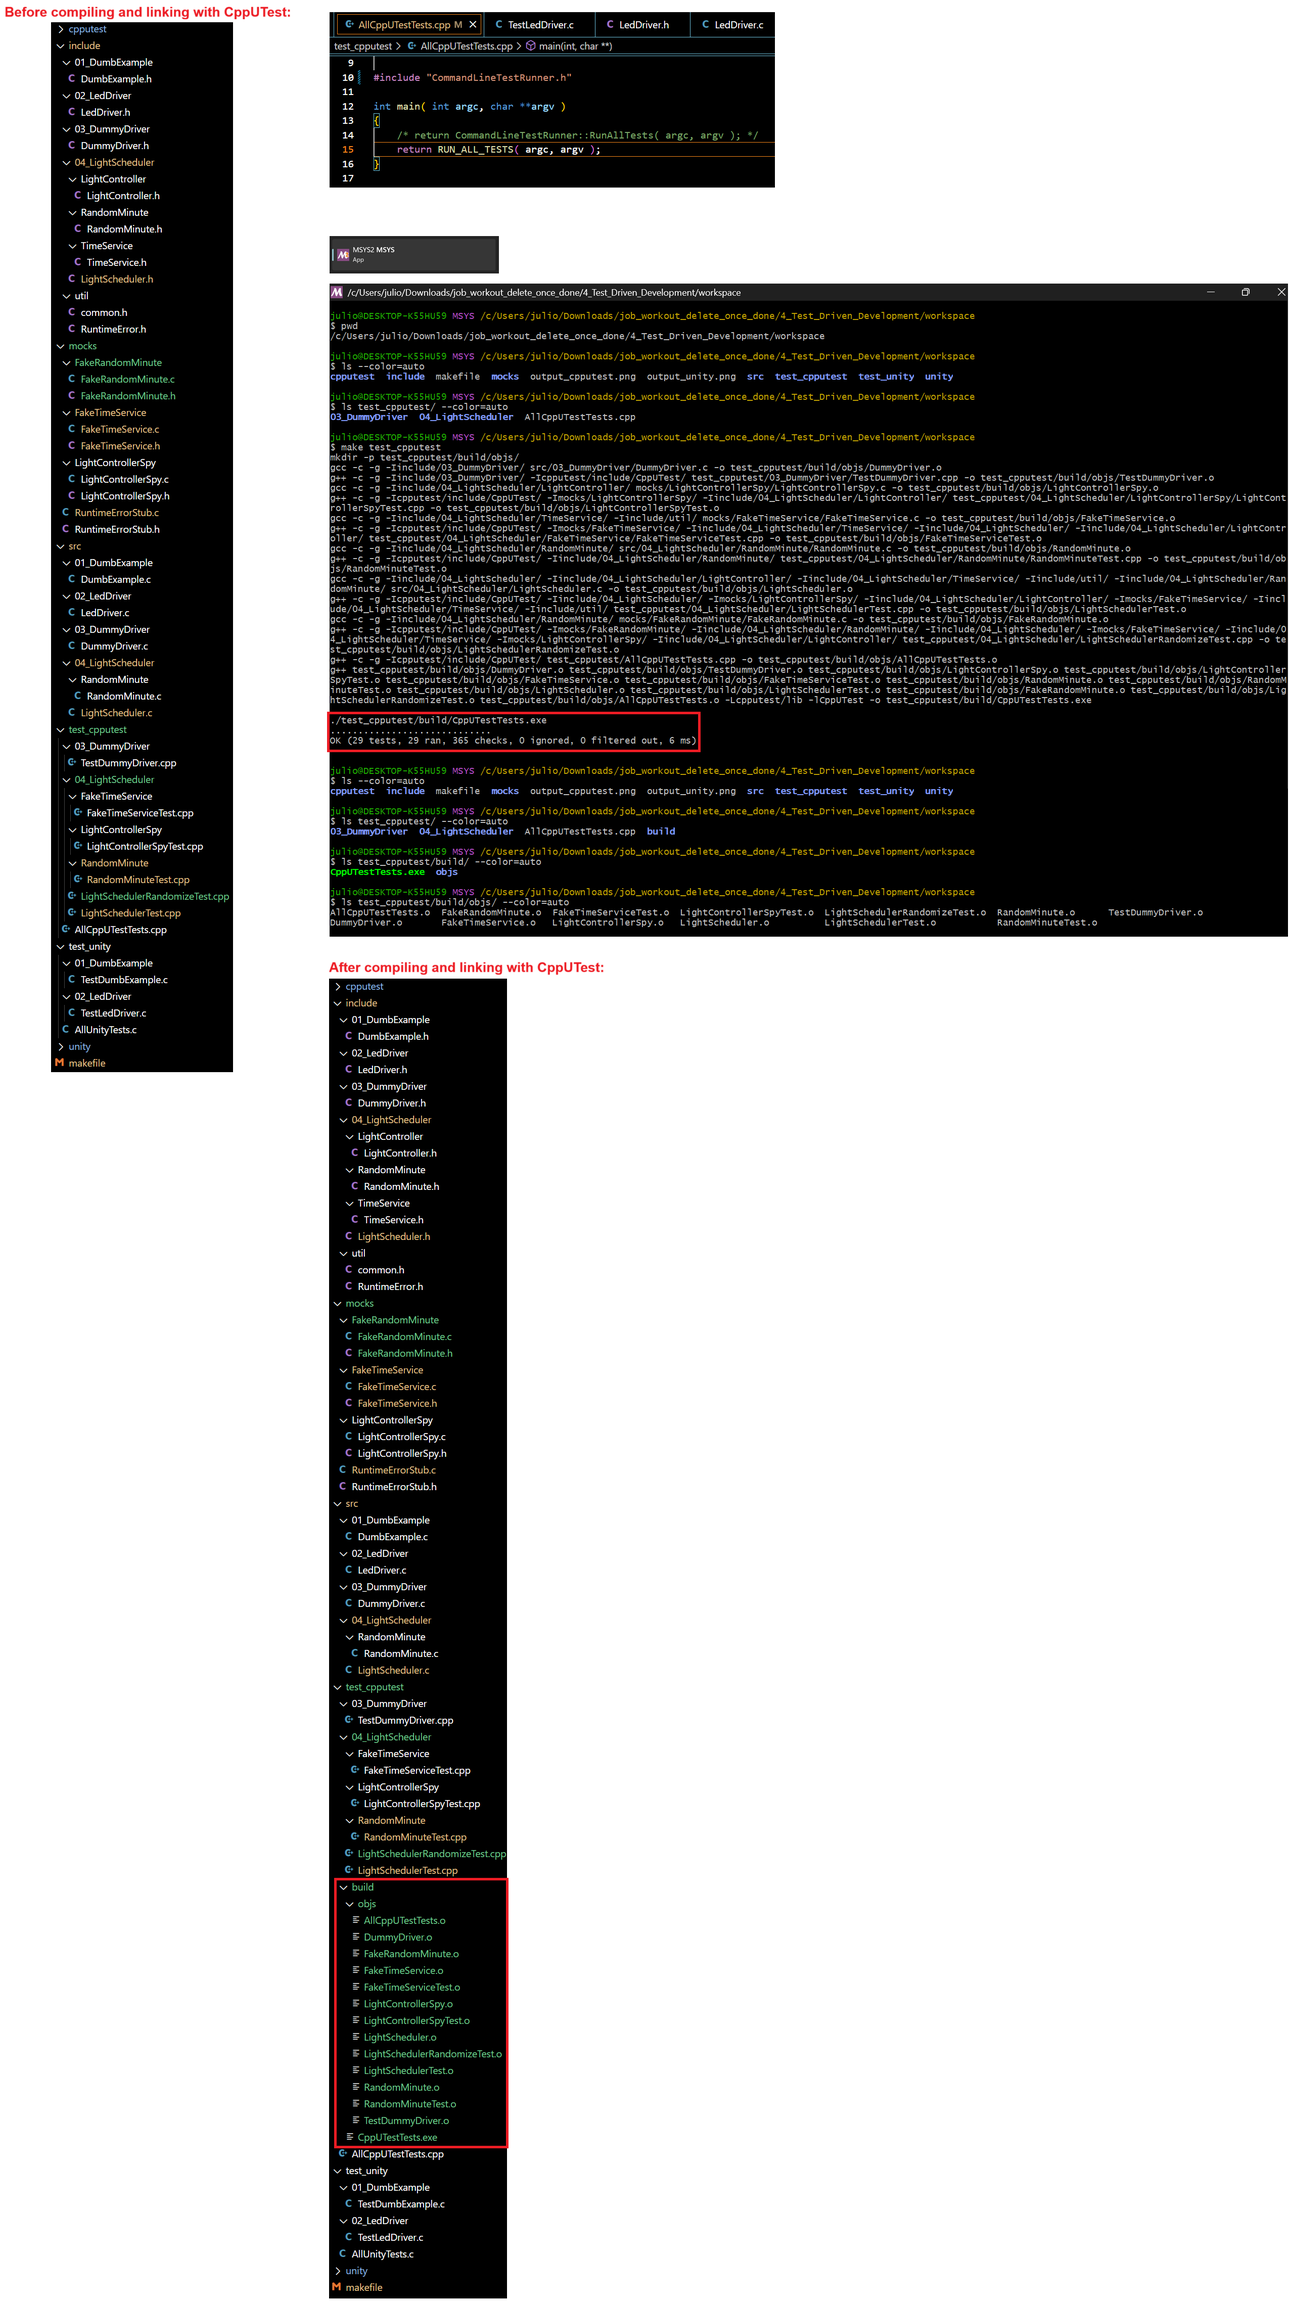
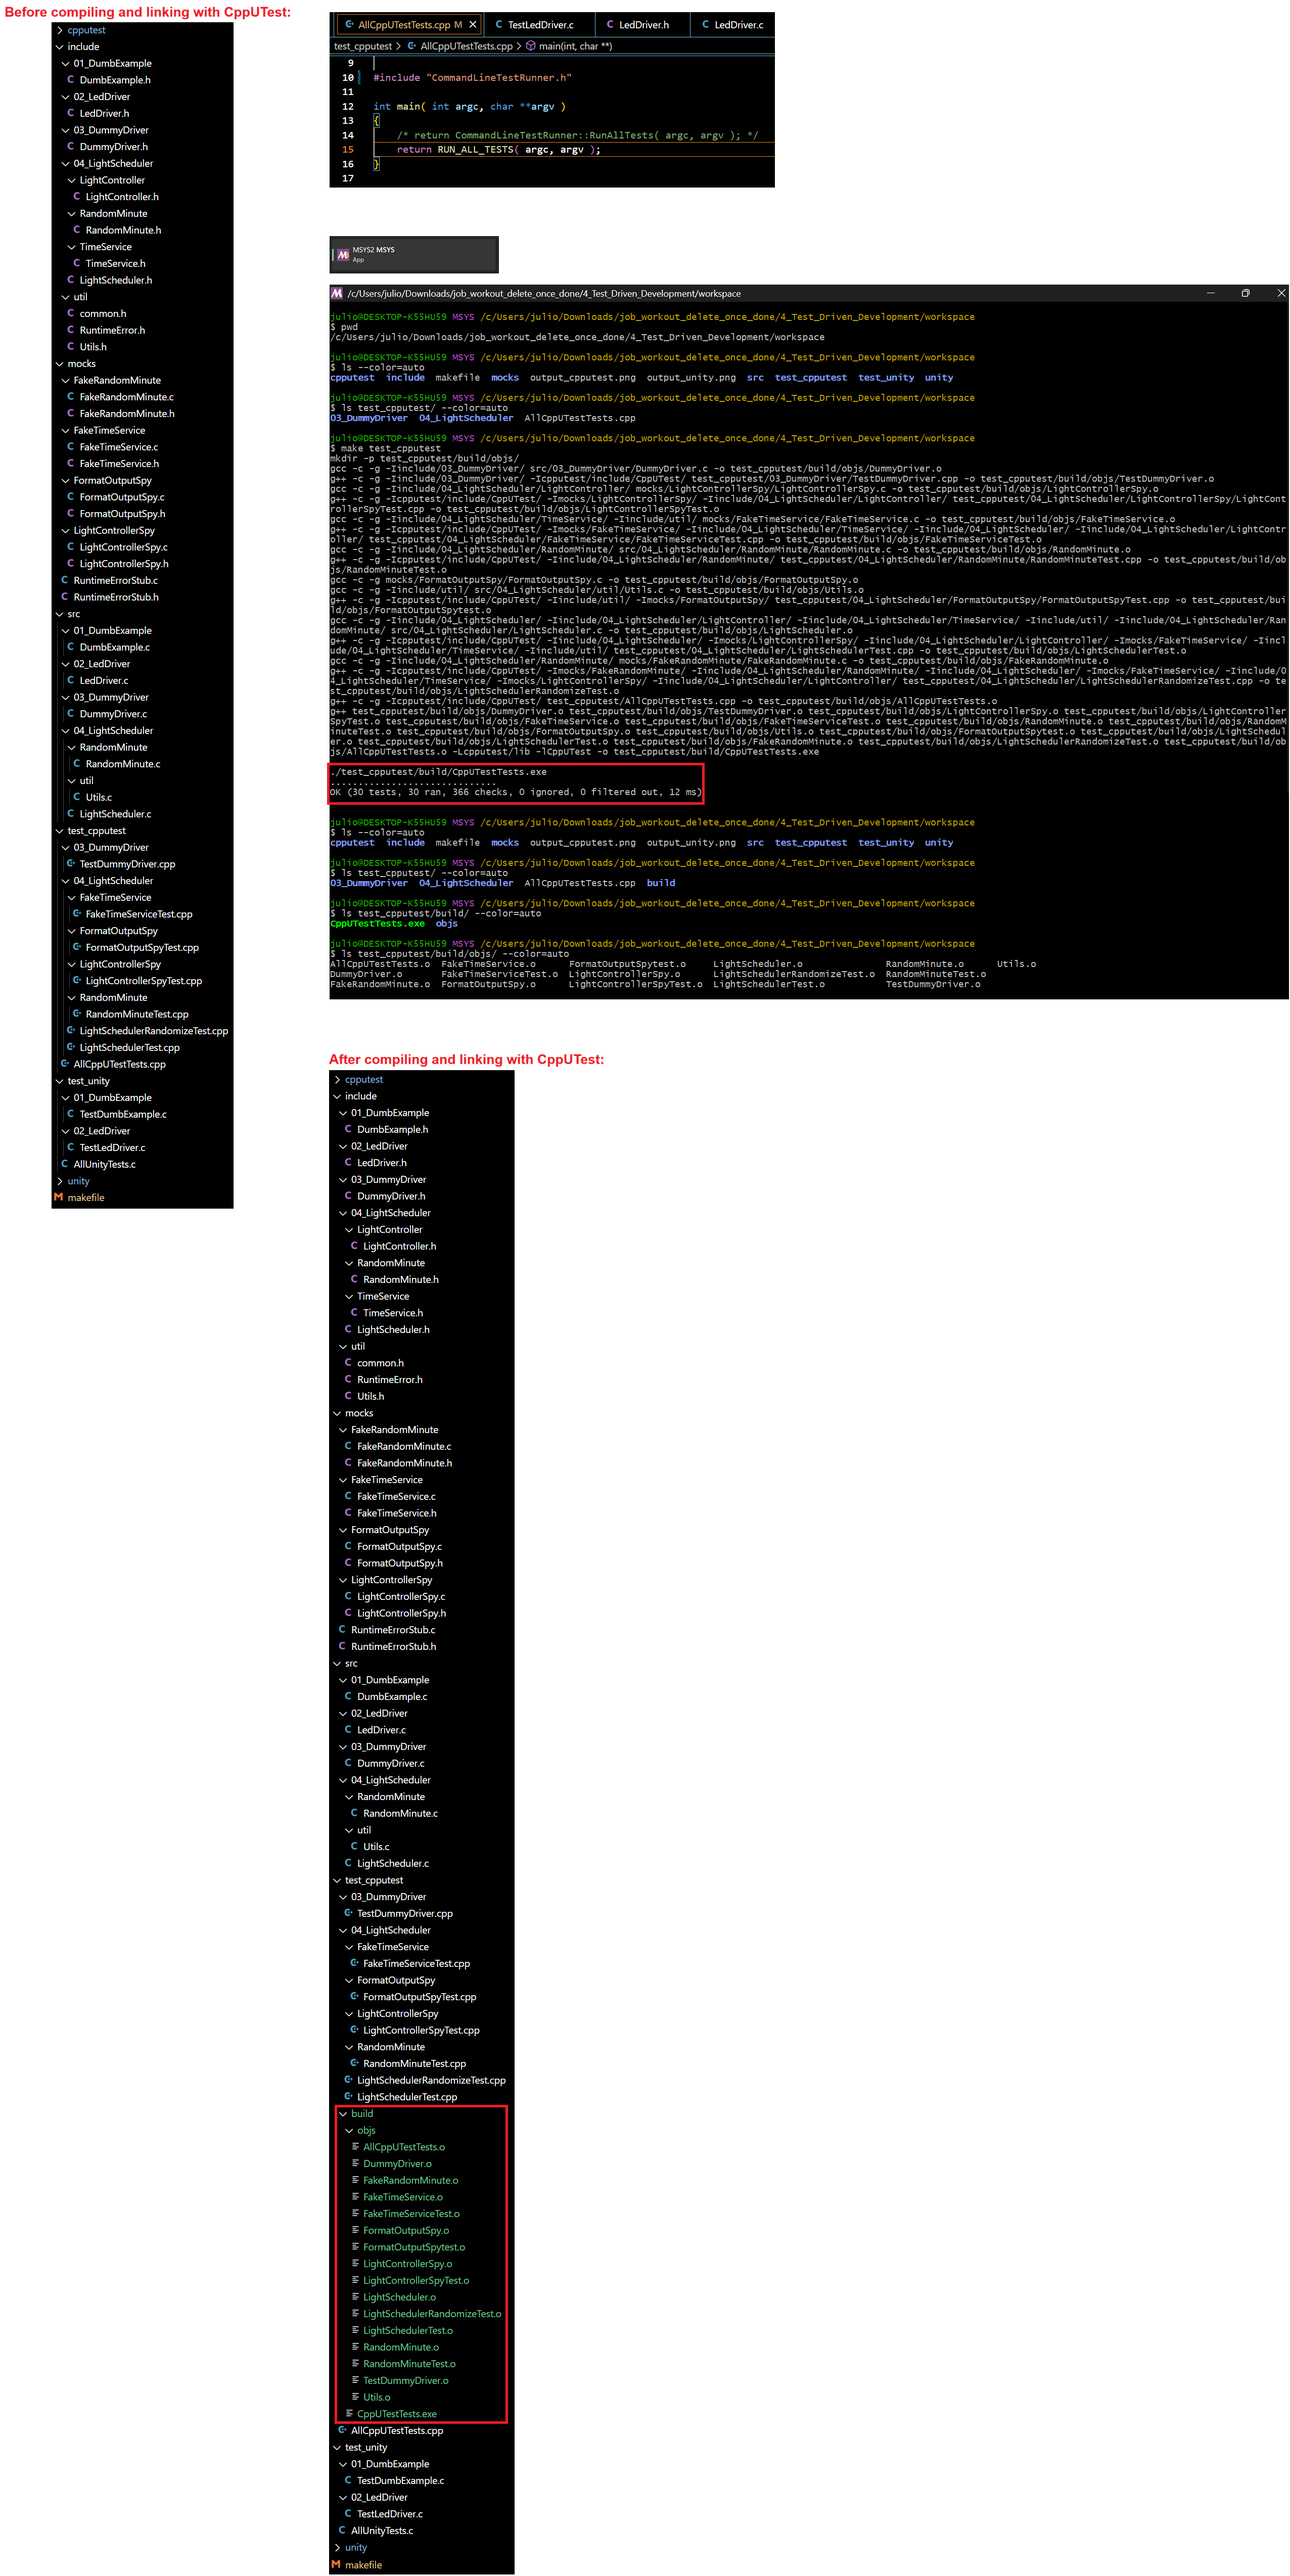
Add FormatOutputSpy HelloWorld test

Changed region(s): [[0.2476, 0.0, 1.0, 1.0], [0.031, 0.0, 0.1548, 0.4675], [0.1548, 0.0, 0.1857, 0.0312]]

diff --git a/mocks/FormatOutputSpy/FormatOutputSpy.c b/mocks/FormatOutputSpy/FormatOutputSpy.c
@@ -1,0 +1,110 @@
+/**
+ * @file    FormatOutputSpy.c
+ * @author  Julio Cesar Bernal Mendez
+ * @brief   Format Output module spy file, it contains the necessary resources to make use of the fake
+ *          FormatOutput() function (printf), which is replaced during TEST() by updating the FormatOutput
+ *          function pointer (FormatOutput is defined and implemented in Utils.c)
+ * 
+ * @version 0.1
+ * @date    2025-04-16
+ */
+
+#include "FormatOutputSpy.h"
+#include <stdlib.h> /* calloc() / free() */
+#include <stdarg.h> /* va_start() / va_end() */
+#include <stdio.h>  /* vsnprintf() */
+
+/* file-scope buffer (aka. string) used to "catch" the contents of of the production FormatOutput() (i.e. printf()) */
+static char *buffer = 0;
+
+/* File-scope variable used to keep track of the size of the string.
+   This is used for dynamically allocation of the buffer by calloc() */
+static size_t buffer_size;
+
+/* Internal buffer (string) index.
+   This is used in future calls to FormatOutput() so that the new string is appended
+   to the previously written string */
+static int buffer_offset = 0;
+
+/* Used to know the number of spaces (chars) left in the buffer (string) */
+static int buffer_used = 0;
+
+void FormatOutputSpy_Create( int size )
+{
+    /* destroy any previous buffer (if any) */
+    FormatOutputSpy_Destroy();
+
+    /* take into account the null termination character as well */
+    buffer_size = size + 1;
+
+    /* Allocate dynamically a memory space of "buffer_size" bytes */
+    buffer = ( char* ) calloc( buffer_size, sizeof( char ) );
+
+    /* restart both buffer offset and buffer used */
+    buffer_offset = 0;
+    buffer_used = 0;
+
+    /* the buffer is empty after creation, there is only the null character */
+    buffer[ 0 ] = '\0';
+}
+
+void FormatOutputSpy_Destroy( void )
+{
+    /* if the buffer (string) has not been created */
+    if ( buffer == 0 )
+        return; /* return, there's no buffer to destroy */
+
+    /* otherwise, deallocate the buffer, buffer is not usable and
+       needs to be created again */
+    free( buffer );
+
+    /* buffer has no valid address assiged to it now (0 = NULL).
+       Any attempt to write to it after a FormatOutput_Destroy() will results in segmentation fault.
+       buffer is not usable and needs to be created again */
+    buffer = 0;
+}
+
+/* The elipsis (...) indicatres that the function receives a variable number of arguments of any type */
+int FormatOutputSpy( const char* format, ... )
+{
+    /* used to store number of bytes written to the buffer by each call to vsnprint(),
+       then compute both the buffer_offset and buffer_used values */
+    int written_size;
+
+    /* stores information needed by macros va_start, va_arg and va_end */
+    va_list arguments;
+
+    /* initializes the va_list object */
+    va_start( arguments, format );
+
+    /* vsnprintf() function formats and stores a series of characters and values in the buffer target-string.
+
+       vsnprintf() function works just like snprintf(), except that the va_list "arguments" points to a list of arguments
+       whose number can vary from call to call in the program. These arguments should be initialized by the va_start
+       function for each call.
+       
+       In contrast, the snprintf() function can have a list of arguments, but the number of arguments in that list
+       is fixed when you compile the program.
+       
+       vsnprintf() returns the number of bytes that are written in the array, not counting the ending null character.
+       
+       Format:
+       int vsnprintf( char *target-string, size_t n, const char *format, va_list arg_ptr ) */
+    written_size = vsnprintf( buffer + buffer_offset, buffer_size - buffer_used, format, arguments );
+
+    /* new information was written to the buffer, update both its offset and the number of bytes (chars) used */
+    buffer_offset += written_size;
+    buffer_used += written_size;
+
+    /* Clean up variable-lenght argument list.
+       va_end is a macro that facilitates a normal return from a function whose
+       variable-length argument list was referred to by the va_start macro */
+    va_end( arguments );
+
+    return 1;
+}
+
+const char *FormatOutputSpy_GetOutput( void )
+{
+    return buffer;
+}

diff --git a/src/04_LightScheduler/util/Utils.c b/src/04_LightScheduler/util/Utils.c
@@ -1,0 +1,41 @@
+/**
+ * @file    Utils.c
+ * @author  Julio Cesar Bernal Mendez
+ * @brief   Source file that contains the function pointer implementation used to replace the value pointed to by
+ *          FormatOutput function pointer (which by default uses printf()) with FormatOutputSpy for testing purposes.
+ * 
+ *          This is a function pointer-based test seam through a utility module to isolate and redirect calls to
+ *          printf() for testing purposes — without touching the production code.
+ * 
+ *          Unlike the RandomMinute_Get approach used in RandomMinute.c, here an intermediary "object" is used
+ *          (Utils.h/Utils.c) to define and implement the fake FormatOutput(), FormatOutputSpy().
+ *          
+ *          Why do we want to replace FormatOutput with FormatOutputSpy?
+ *          When a system has a printed output, it is usually manually inspected.
+ *          Printed output is tedious to verify, so we don't want to reinspect the output as often as we should.
+ *          We will never get totally away from manually inspecting printed output, but its possible to eliminate
+ *          the re-inspections by locking in the desired behavior.
+ *          ("Locking in" means we've tested, verified, and maybe even automated enough of the process that we're
+ *          confident it's working as intended every time).
+ * 
+ * @version 0.1
+ * @date    2025-04-16
+ */
+
+#include "Utils.h"
+#include <stdio.h>
+
+/*
+static int FormatOutput_Impl( const char *format, ... )
+{
+    // snip
+}
+
+int ( *FormatOutput )( const char *format, ... ) = FormatOutput_Impl;
+*/
+
+/* The function pointer is initialized to point to the "production" printf().
+
+   The purpose of this function pointer is to allow any TEST() or TEST_GROUP() to override the
+   default function pointer value (printf) with a pointer to a fake printf (i.e. FormatOutputSpy()) */
+int ( *FormatOutput )( const char *format, ... ) = printf;

diff --git a/test_cpputest/04_LightScheduler/FormatOutputSpy/FormatOutputSpyTest.cpp b/test_cpputest/04_LightScheduler/FormatOutputSpy/FormatOutputSpyTest.cpp
@@ -1,0 +1,55 @@
+/**
+ * @file    FormatOutputSpyTest.cpp
+ * @author  Julio Cesar Bernal Mendez
+ * @brief   Format Output Spy test file
+ * 
+ * @version 0.1
+ * @date    2025-04-14
+ */
+
+extern "C"
+{
+    /* includes for things with C linkage */
+    #include "Utils.h"
+    #include "FormatOutputSpy.h"
+}
+ 
+/* includes for things with C++ linkage */
+#include "TestHarness.h"
+ 
+TEST_GROUP( FormatOutputSpy )
+{
+    /* define data accessible to test group members here */
+       
+    void setup()
+    {
+        /* initialization steps are executed before each TEST */
+
+        /* Update FormatOutput (which points to printf() by default) to point to FormatOutputSpy instead,
+           for testing purposes.
+           
+           When a function pointer is set with UT_PTR_SET() during setup() or during any TEST(),
+           it's automatically restored after teardown() completes */
+        UT_PTR_SET( FormatOutput, FormatOutputSpy );
+    }
+       
+    void teardown()
+    {
+        /* clean up steps are executed after each TEST */
+        FormatOutputSpy_Destroy();
+    }
+};
+
+TEST( FormatOutputSpy, HelloWorld )
+{
+    /* Allocate (dynamically) space to hold a buffer of 20 bytes (i.e. 20 characters plus null termination).
+       This will update the buffer in FormatOutputSpy.c */
+    FormatOutputSpy_Create( 20 );
+
+    /* Write "Hello, World\n" as if it was the real FormatOutput() which uses printf().
+       Here the FormatOutputSpy() will catch that and redirect it into the buffer in FormatOutputSpy.c */
+    FormatOutput( "Hello, World\n" );
+
+    /* compare the buffer with the expected result */
+    STRCMP_EQUAL( "Hello, World\n", FormatOutputSpy_GetOutput() );
+}

diff --git a/include/util/Utils.h b/include/util/Utils.h
@@ -1,0 +1,35 @@
+/**
+ * @file    Utils.h
+ * @author  Julio Cesar Bernal Mendez
+ * @brief   Header file that contains the function pointer implementation used to replace the value pointed to by
+ *          FormatOutput function pointer (which by default uses printf()) with FormatOutputSpy for testing purposes.
+ * 
+ *          This is a function pointer-based test seam through a utility module to isolate and redirect calls to
+ *          printf() for testing purposes — without touching the production code.
+ * 
+ *          Unlike the RandomMinute_Get approach used in RandomMinute.c, here an intermediary "object" is used
+ *          (Utils.h/Utils.c) to define and implement the fake FormatOutput(), FormatOutputSpy().
+ *          
+ *          Why do we want to replace FormatOutput with FormatOutputSpy?
+ *          When a system has a printed output, it is usually manually inspected.
+ *          Printed output is tedious to verify, so we don't want to reinspect the output as often as we should.
+ *          We will never get totally away from manually inspecting printed output, but its possible to eliminate
+ *          the re-inspections by locking in the desired behavior.
+ *          ("Locking in" means we've tested, verified, and maybe even automated enough of the process that we're
+ *          confident it's working as intended every time).
+ * 
+ * @version 0.1
+ * @date    2025-04-16
+ */
+
+#ifndef UTILS_H
+#define UTILS_H
+
+    /*
+    int FormatOutput_Impl( const char *format, ... )
+    */
+
+    /* The pointer must be extern to avoid multiple definition errors at link time */
+    extern int ( *FormatOutput )( const char *, ... );
+
+#endif

diff --git a/mocks/FormatOutputSpy/FormatOutputSpy.h b/mocks/FormatOutputSpy/FormatOutputSpy.h
@@ -1,0 +1,19 @@
+/**
+ * @file    FormatOutputSpy.h
+ * @author  Julio Cesar Bernal Mendez
+ * @brief   Format Output module spy header file containing the prototype spy functions for
+ *          the Format Output Spy module (FormatOutputSpy.c).
+ * 
+ * @version 0.1
+ * @date    2025-04-16
+ */
+
+#ifndef FORMATOUTPUTSPY_H
+#define FORMATOUTPUTSPY_H
+
+    void FormatOutputSpy_Create( int size );
+    void FormatOutputSpy_Destroy( void );
+    int FormatOutputSpy( const char* format, ... );
+    const char *FormatOutputSpy_GetOutput( void );
+
+#endif
